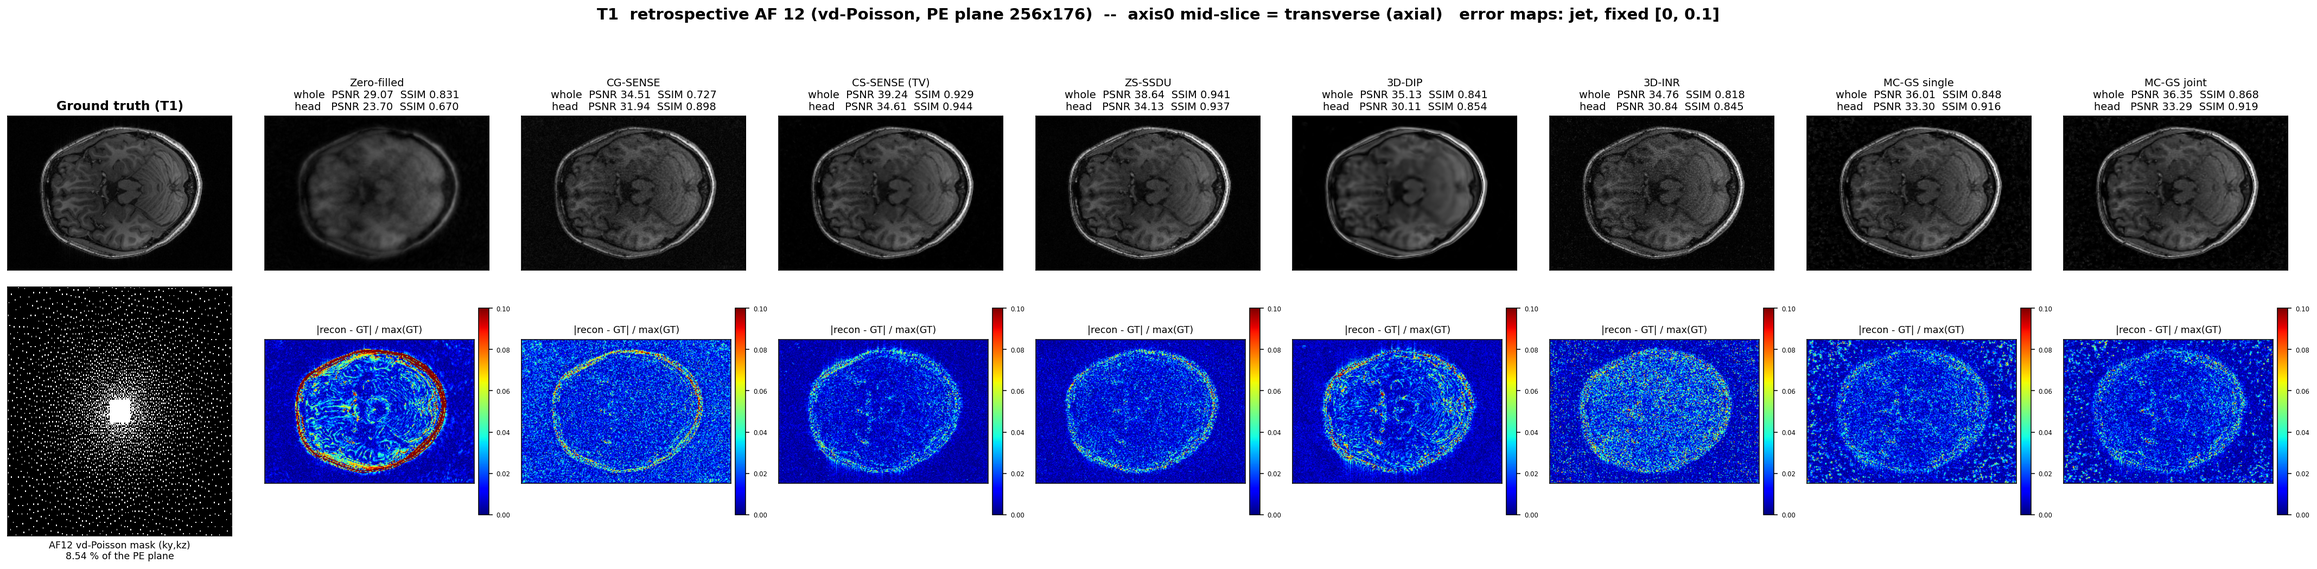
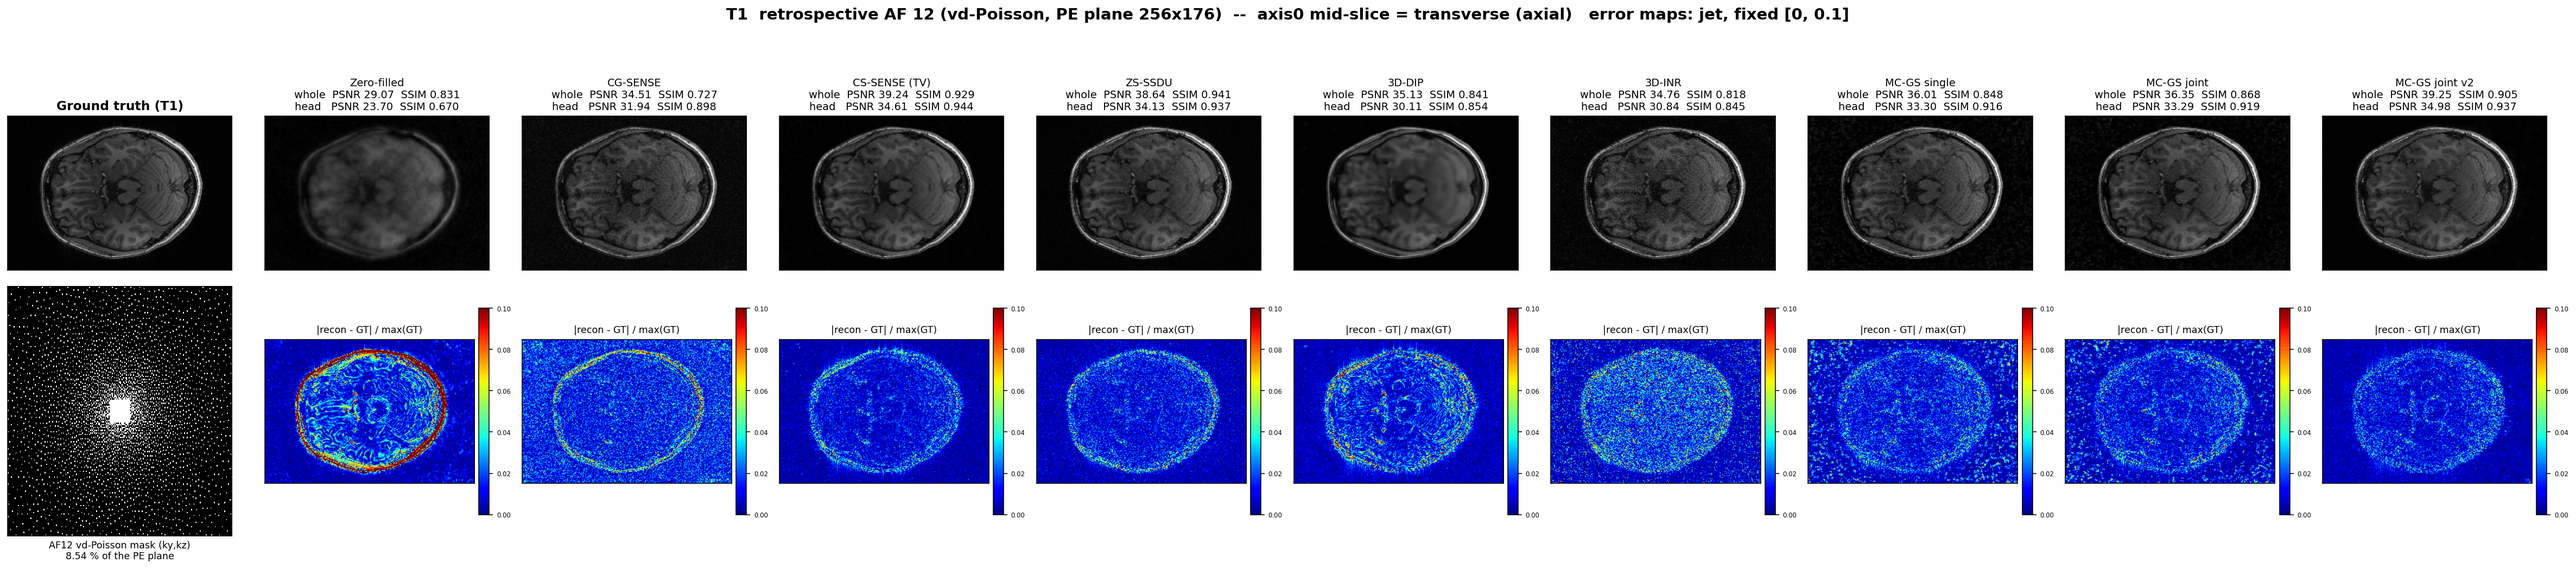
t1t2: ninth arm 'MC-GS joint v2' - the cold-start path repaired; first on head PSNR, whole PSNR, NMSE and head HFEN on both contrasts
The original joint arm's 1.3 dB deficit to CS-SENSE was the fresh-cloud path, not a missing
warm start: uniform init over the render box (72 % of the points in air, never moving), edge-TV
kappa calibrated on the first render's speckle, and no capacity growth. Positions inside the
ZF head support + 3-NN scales + kappa from ZF + 1.2M points: T1 34.978 / T2 35.429 head PSNR
against CS-SENSE 34.607 / 34.219. README carries the per-change ledger, the capacity
asymmetry, and the caveat that the recipe was selected on this subject with the GT in the
scorer (transfer to the T1+FLAIR topics is the check). Tables and the six plane figures
regenerated with ten columns.

diff --git a/t1t2_af12_retro/scripts/summarize.py b/t1t2_af12_retro/scripts/summarize.py
@@ -18,9 +18,10 @@ ARC = Path("/data0/congcong/code/GS/Paired_ARC_GS_general_framework/results_arc"
 
 COLS = ["psnr", "ssim", "nmse", "hfen", "head_psnr", "head_ssim", "head_hfen",
         "sharp", "grain", "grain_ratio"]
-ORDER = ["zf", "cgsense", "cssense", "zsssdu", "dip", "inr", "gs_single", "gs_joint"]
+ORDER = ["zf", "cgsense", "cssense", "zsssdu", "dip", "inr", "gs_single", "gs_joint", "gs_joint_v2"]
 LABEL = {"zf": "ZF", "cgsense": "CG-SENSE", "cssense": "CS-SENSE", "zsssdu": "ZS-SSDU",
-         "dip": "3D-DIP", "inr": "3D-INR", "gs_single": "MC-GS single", "gs_joint": "MC-GS joint"}
+         "dip": "3D-DIP", "inr": "3D-INR", "gs_single": "MC-GS single", "gs_joint": "MC-GS joint",
+         "gs_joint_v2": "MC-GS joint v2"}
 
 
 def main():
@@ -41,6 +42,13 @@ def main():
         for ch, name in (("plain", d.get("plain_name", "T1")), ("contrast", d.get("contrast_name", "T2"))):
             rows.append({"contrast": name, "method": "gs_joint",
                          **{k: d[ch].get(k) for k in COLS}, "seconds": None})
+    # v2 = autoresearch working point (autoresearch_t1t2.md in the framework repo), 4000 iters
+    vp = ARC / "ar3_P2_full4k_score.json"
+    if vp.exists():
+        d = json.load(open(vp))
+        for ch, name in (("plain", d.get("plain_name", "T1")), ("contrast", d.get("contrast_name", "T2"))):
+            rows.append({"contrast": name, "method": "gs_joint_v2",
+                         **{k: d[ch].get(k) for k in COLS}, "seconds": d.get("elapsed_s")})
     for c in ("T1", "T2"):
         sp = ARC / f"t1t2_af12_single_{c}_score.json"
         if sp.exists():

diff --git a/t1t2_af12_retro/scripts/make_figures.py b/t1t2_af12_retro/scripts/make_figures.py
@@ -14,7 +14,7 @@ from pathlib import Path
 
 ap = argparse.ArgumentParser()
 ap.add_argument("--contrast", required=True, choices=["T1", "T2"])
-ap.add_argument("--methods", default="zf,cgsense,cssense,zsssdu,dip,inr,gs_single,gs_joint")
+ap.add_argument("--methods", default="zf,cgsense,cssense,zsssdu,dip,inr,gs_single,gs_joint,gs_joint_v2")
 ap.add_argument("--out", default=None)
 args = ap.parse_args()
 
@@ -30,7 +30,7 @@ FIGS.mkdir(parents=True, exist_ok=True)
 ANAT = {0: "transverse (axial)", 1: "coronal", 2: "sagittal"}   # adjudicated 2026-09-09, see README
 LABEL = {"zf": "Zero-filled", "cgsense": "CG-SENSE", "cssense": "CS-SENSE (TV)",
          "zsssdu": "ZS-SSDU", "dip": "3D-DIP", "inr": "3D-INR",
-         "gs_single": "MC-GS single", "gs_joint": "MC-GS joint"}
+         "gs_single": "MC-GS single", "gs_joint": "MC-GS joint", "gs_joint_v2": "MC-GS joint v2"}
 
 
 def load(method, c):

diff --git a/t1t2_af12_retro/scripts/extract_gs_volumes.py b/t1t2_af12_retro/scripts/extract_gs_volumes.py
@@ -19,7 +19,10 @@ ARC = Path("/data0/congcong/code/GS/Paired_ARC_GS_general_framework/results_arc"
 JOBS = [("t1t2_af12_joint", "gs_joint", [("recT1", "T1"), ("recFL", "T2")],
          [("gtT1", "T1"), ("gtFL", "T2")], [("zfT1", "T1"), ("zfFL", "T2")]),
         ("t1t2_af12_single_T1", "gs_single", [("recT1", "T1")], [], []),
-        ("t1t2_af12_single_T2", "gs_single", [("recT1", "T2")], [], [])]
+        ("t1t2_af12_single_T2", "gs_single", [("recT1", "T2")], [], []),
+        # v2 = the autoresearch working point (head-support init, 3-NN scales, kappa from ZF,
+        # 1.2M points), promoted at 4000 iterations on 2026-09-10; see README "MC-GS joint v2".
+        ("ar3_P2_full4k", "gs_joint_v2", [("recT1", "T1"), ("recFL", "T2")], [], [])]
 
 
 def main():

diff --git a/t1t2_af12_retro/README.md b/t1t2_af12_retro/README.md
@@ -152,6 +152,7 @@ The set is the same eight the CE pre/post study compared, with the same hyper-pa
 | 3D-INR | 3D coordinate network, hash-grid encoding into a small ReLU MLP (SUMMIT backbone, complex weighted-image head), 16.79 M params. 1500 iterations, lr 5e-3 | `recon_dip_inr.py` |
 | MC-GS single | the frozen model with the SAME contrast in both channels (2x the single-scan objective; Adam is invariant to a global loss scale, so this is that contrast reconstructed alone) | `arc/cycle.py` |
 | MC-GS joint | the frozen model with T1 in the plain channel and T2 in the contrast channel, one shared Gaussian geometry, per-primitive dual complex density | `arc/cycle.py` |
+| MC-GS joint v2 | the same joint model with the cold-start path repaired (see the section below): points drawn inside the zero-filled head support, 3-NN spacing scales, edge-TV kappa from the ZF image, 1.2M points | `autoresearch_t1t2.sh` |
 
 **No method sees the ground truth during fitting or model selection.** ZS-SSDU stops on a held-out
 10 % of the acquired mask; DIP and INR stop on a held-out 5 % of the acquired PE lines, the same
@@ -175,9 +176,10 @@ metrics, so the learned arms and the classical arms are directly comparable.
 
 | method | PSNR | SSIM | NMSE | HFEN | head PSNR | head SSIM | head HFEN | sharp | grain | wall |
 |---|---|---|---|---|---|---|---|---|---|---|
-| CS-SENSE | **39.243** | 0.9294 | 0.01434 | 0.5682 | **34.607** | **0.9436** | 0.1071 | 0.817 | 0.01016 | 15 min |
+| **MC-GS joint v2** | **39.249** | 0.9047 | **0.01432** | 0.6052 | **34.978** | 0.9373 | **0.0863** | 0.912 | 0.01220 | 40 min |
+| CS-SENSE | 39.243 | 0.9294 | 0.01434 | **0.5682** | 34.607 | **0.9436** | 0.1071 | 0.817 | 0.01016 | 15 min |
 | ZS-SSDU | 38.635 | 0.9412 | 0.01649 | 0.6465 | 34.134 | 0.9365 | 0.1213 | 1.012 | 0.01387 | 22 min |
-| MC-GS single | 36.010 | 0.8479 | 0.03018 | 0.7521 | 33.296 | 0.9164 | **0.1162** | 0.935 | 0.01473 | 127 min |
+| MC-GS single | 36.010 | 0.8479 | 0.03018 | 0.7521 | 33.296 | 0.9164 | 0.1162 | 0.935 | 0.01473 | 127 min |
 | MC-GS joint | 36.353 | 0.8682 | 0.02789 | 0.7319 | 33.294 | 0.9190 | 0.1220 | 0.874 | 0.01243 | 99 min |
 | CG-SENSE | 34.514 | 0.7269 | 0.04259 | 0.8528 | 31.941 | 0.8981 | 0.1705 | 0.903 | 0.01623 | 11 min |
 | 3D-INR | 34.761 | 0.8182 | 0.04024 | 1.0278 | 30.838 | 0.8446 | 0.1435 | 1.218 | 0.02465 | 71 min |
@@ -188,7 +190,8 @@ metrics, so the learned arms and the classical arms are directly comparable.
 
 | method | PSNR | SSIM | NMSE | HFEN | head PSNR | head SSIM | head HFEN | sharp | grain | wall |
 |---|---|---|---|---|---|---|---|---|---|---|
-| CS-SENSE | **39.229** | 0.9307 | 0.01417 | 0.5440 | **34.219** | 0.9427 | 0.0916 | 0.741 | 0.00967 | 5 min |
+| **MC-GS joint v2** | **40.174** | 0.9314 | **0.01140** | **0.5239** | **35.429** | 0.9474 | **0.0665** | 0.857 | 0.01171 | 40 min |
+| CS-SENSE | 39.229 | 0.9307 | 0.01417 | 0.5440 | 34.219 | 0.9427 | 0.0916 | 0.741 | 0.00967 | 5 min |
 | ZS-SSDU | 38.991 | **0.9677** | 0.01497 | 0.5626 | 33.822 | **0.9493** | 0.1168 | 1.128 | 0.01589 | 42 min |
 | MC-GS single | 37.743 | 0.9162 | 0.01995 | 0.6361 | 33.497 | 0.9319 | 0.0932 | 0.866 | 0.01382 | 100 min |
 | MC-GS joint | 37.833 | 0.9365 | 0.01954 | 0.6478 | 33.121 | 0.9295 | 0.1005 | 0.802 | 0.01161 | 99 min |
@@ -198,8 +201,8 @@ metrics, so the learned arms and the classical arms are directly comparable.
 | ZF | 30.548 | 0.8659 | 0.10456 | 0.9198 | 25.193 | 0.7013 | 0.6406 | 0.277 | 0.00421 | 6 min |
 
 Figures: `figures/t1t2_af12_{T1,T2}_plane{0,1,2}.png`, mirrored to
-`/home/congcongliu/figs/t1t2_af12/`. Nine columns: ground truth (with the AF12 sampling pattern
-below it) then the eight methods, magnitudes on top and `|recon - GT| / max(GT)` below in jet with
+`/home/congcongliu/figs/t1t2_af12/`. Ten columns: ground truth (with the AF12 sampling pattern
+below it) then the nine arms, magnitudes on top and `|recon - GT| / max(GT)` below in jet with
 a fixed [0, 0.1] range.
 
 ### What the numbers say
@@ -216,11 +219,15 @@ SoS == 1 in air, so the ground truth's background carries full-amplitude noise a
 does not suppress it is punished. Head-only reverses the verdict, 0.898 against 0.670. Quote
 head-only numbers.
 
-**MC-GS sits about 3 dB behind CS-SENSE here, and the likely reason is the missing warm start.**
-The frozen headline (T1 38.4 dB on the old bundle) came from a 576902-Gaussian dual-warm cloud;
-that cloud belongs to a different FOV and cannot be registered onto this grid, so these runs start
-from a fresh 600 000-point cloud. That is the single deliberate deviation from the frozen recipe
-and it is not a small one. Building a warm start on this grid is the obvious next experiment.
+**The original MC-GS arms sit 1.3 dB behind CS-SENSE inside the head, and the reason turned out
+to be the cold-start path, not a missing warm start as such.** The frozen headline came from a
+576902-Gaussian dual-warm cloud that cannot be registered onto this grid, so these runs start
+from a fresh 600 000-point cloud, and that path had never been exercised at quality: it scatters
+the points uniformly over the render box (72 % of them in air, where they never move) and
+calibrates the edge-TV threshold on the speckle of the first render. Repairing it, and giving
+the cloud 1.2M points, is the "MC-GS joint v2" row: **+1.68 / +2.31 dB head-only over the
+original joint arm, first on head PSNR, whole PSNR, NMSE and head HFEN on both contrasts**, head
+SSIM second by 0.006 / 0.002. Details in the v2 section below.
 
 **Joint versus single is a wash inside the head.** Joint wins on whole-volume PSNR (+0.343 dB on
 T1, +0.090 on T2) but head-only is flat on T1 (33.294 vs 33.296) and *worse* on T2 (−0.376). So on
@@ -247,6 +254,48 @@ Gauge notes:
 - `grain_ratio` (N) uses the frozen "WM" band = strict [P55, P90] of in-brain intensity. On T1
   that band is white matter. **On T2 it is not** — T2 inverts the tissue ordering — so N is not
   comparable between the two contrasts. It remains comparable *across methods within* a contrast.
+
+## MC-GS joint v2 — the cold-start path repaired (autoresearch, 2026-09-09/10)
+
+Found and fixed with a Karpathy-style loop (one change per experiment, 1500-iteration
+screening, 4000-iteration promotion) run on this pair: program `autoresearch_t1t2.md`, ledger
+`autoresearch_t1t2.tsv`, runner `autoresearch_t1t2.sh`, branch `autoresearch-t1t2` of the
+framework repo. Three defects of the fresh-cloud path in `JointTrainer._setup_model`, each
+measured on its own at 1500 iterations (head PSNR T1 / T2, shipped cold start 32.55 / 32.35):
+
+| change | what it fixes | head PSNR after | delta |
+|---|---|---|---|
+| positions drawn inside the zero-filled head support (`gaussian.init_mode=head`) | 72 % of a uniform cloud lands in air with density ~0 and position gradient ~0; those points never move | 34.17 / 34.27 | **+1.62 / +1.92** |
+| + 3-NN spacing scales instead of a fixed 1-voxel scale (`init_scale_mode=3nn`) | coverage holes between points | 34.77 / 34.22 | +0.61 / −0.05 (SSIM and HFEN up on both) |
+| + edge-TV kappa resolved on the ZF image (`loss.edge_tv_kappa_source=zf`) | the threshold was the 0.85-quantile of the *initial render's* gradients, i.e. of speckle | 34.82 / 34.22 | +0.05 / 0.00 once 3-NN is on (+0.30 / +0.08 on the fixed-scale cloud) |
+| + 1.2M initial points (`gaussian.initial_num_points=1200000`) | capacity; the warm cloud had been densified, this one never was | 35.01 / 35.02 | +0.19 / +0.80 |
+
+Promotion at 4000 iterations = the v2 rows above (`results_arc/ar3_P2_full4k*`, 40 min, 32 GB).
+Repeat floor at this working point (seed 42 vs 43): 0.003 / 0.005 dB. Things that did **not**
+help, each as a single change: intensity-weighted sampling, densification (inert at the fixed
+scale; dominated by the initial count otherwise), position_lr x3.3, lambda_geo 0.07, plain
+high-band weight 1.0 or 3.0. Capacity is contrast-asymmetric: T1 peaks at 1.2M and falls
+beyond it (34.91 / 34.57 / 32.24 at 1.6 / 2.4 / 4.8M) because the extra points fit the acquired
+8.5 % better and extrapolate worse (oracle unsampled-k error 0.590 → 0.617 → 0.726), while T2,
+protected by its shutter, keeps rising to 2.4M (35.48). The shared geometry follows the binding
+contrast.
+
+Read this row with two caveats. (1) The four changes were **selected on this subject with the
+ground truth in the scorer**, unlike the other arms' fixed hyper-parameters; they are structural
+(where the cloud starts, how big it is, where the edge threshold comes from), not per-image
+tuning, and the same recipe is being checked unchanged on the two T1+FLAIR topics
+(`T1FLAIR_AF12_retro`, `T1FLAIR_AF12_v3_jiangyizhou`) — see the framework repo's
+`autoresearch_t1t2.md` round log for the outcome. (2) Whole-volume SSIM still favours ZS-SSDU
+and CS-SENSE; as explained above that gauge is dominated by the noisy air in the ground truth
+and is not the number to quote.
+
+```bash
+# v2, exactly (frozen working point baked into the runner; the four --set are the change)
+cd $F && SAVE_VOLUMES=1 ./autoresearch_t1t2.sh ar3_P2_full4k 4 4000 \
+  --set gaussian.init_mode=head --set gaussian.init_scale_mode=3nn \
+  --set loss.edge_tv_kappa_source=zf --set gaussian.initial_num_points=1200000
+env $E $PY $R/scripts/extract_gs_volumes.py && env $E $PY $R/scripts/summarize.py
+```
 
 ## Layout
 
